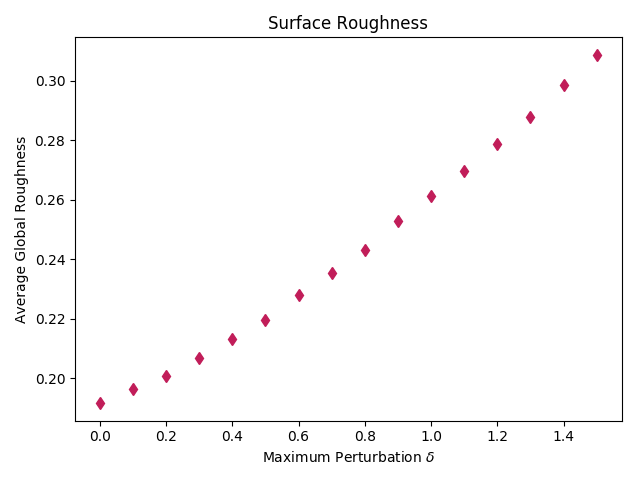
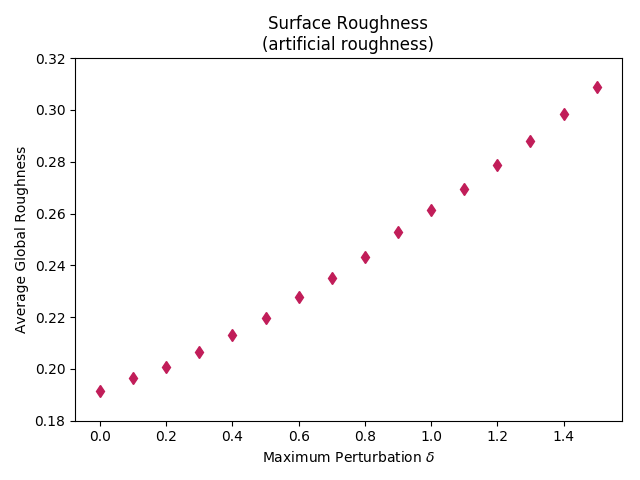
plot smoothed geoms

diff --git a/performance-analysis/analysis/plot_refinement.py b/performance-analysis/analysis/plot_refinement.py
@@ -120,7 +120,7 @@ def plot_roughness_per_group(df):
 
 def plot_average_roughness(df):
     plt.figure()
-    title = 'Surface Roughness'
+    title = 'Surface Roughness\n' + '(artificial roughness)'
     xlabel = r'Maximum Perturbation $\delta$'
     ylabel = 'Average Global Roughness'
 
@@ -130,6 +130,7 @@ def plot_average_roughness(df):
     plt.title(title)
     plt.xlabel(xlabel)
     plt.ylabel(ylabel)
+    plt.ylim((0.18, 0.32))
     plt.tight_layout()
 
     save_name = 'images/average_roughness.png'
@@ -138,16 +139,17 @@ def plot_average_roughness(df):
 
 def plot_average_roughness_smoothed(df):
     plt.figure()
-    title = 'Surface Roughness'
+    title = 'Surface Roughness\n' + '(after smoothing)'
     xlabel = r'Number of smoothing iterations'
     ylabel = 'Average Global Roughness'
 
-    plt.plot(df.loc[df['group'] == 'total'].loc[df['iterations'] <= 10]['iterations'],
-             df.loc[df['group'] == 'total'].loc[df['iterations'] <= 10]['average roughness'],
+    plt.plot(df.loc[df['group'] == 'total'].loc[df['iterations'] <= 10].loc[df['iterations'] > 1]['iterations'],
+             df.loc[df['group'] == 'total'].loc[df['iterations'] <= 10].loc[df['iterations'] > 1]['average roughness'],
              linestyle='', marker='d', color=colors['wwig'])
     plt.title(title)
     plt.xlabel(xlabel)
     plt.ylabel(ylabel)
+    plt.ylim((0.18, 0.32))
     plt.tight_layout()
 
     save_name = 'images/average_roughness_smoothed.png'
@@ -173,7 +175,7 @@ if __name__ == '__main__':
     plot_roughness_per_group(df_rough)
     plot_average_roughness(df_rough)
 
-    all_smooth_files = glob.glob('csv/wwig_roughness_smoothed_*.csv')
+    all_smooth_files = glob.glob('csv/wwig_roughness_smoothed_s01*.csv')
     df_smooth = pd.concat((
         pd.read_csv(f, header=0, index_col=0) for f in all_smooth_files),
         sort=False, ignore_index=True)
